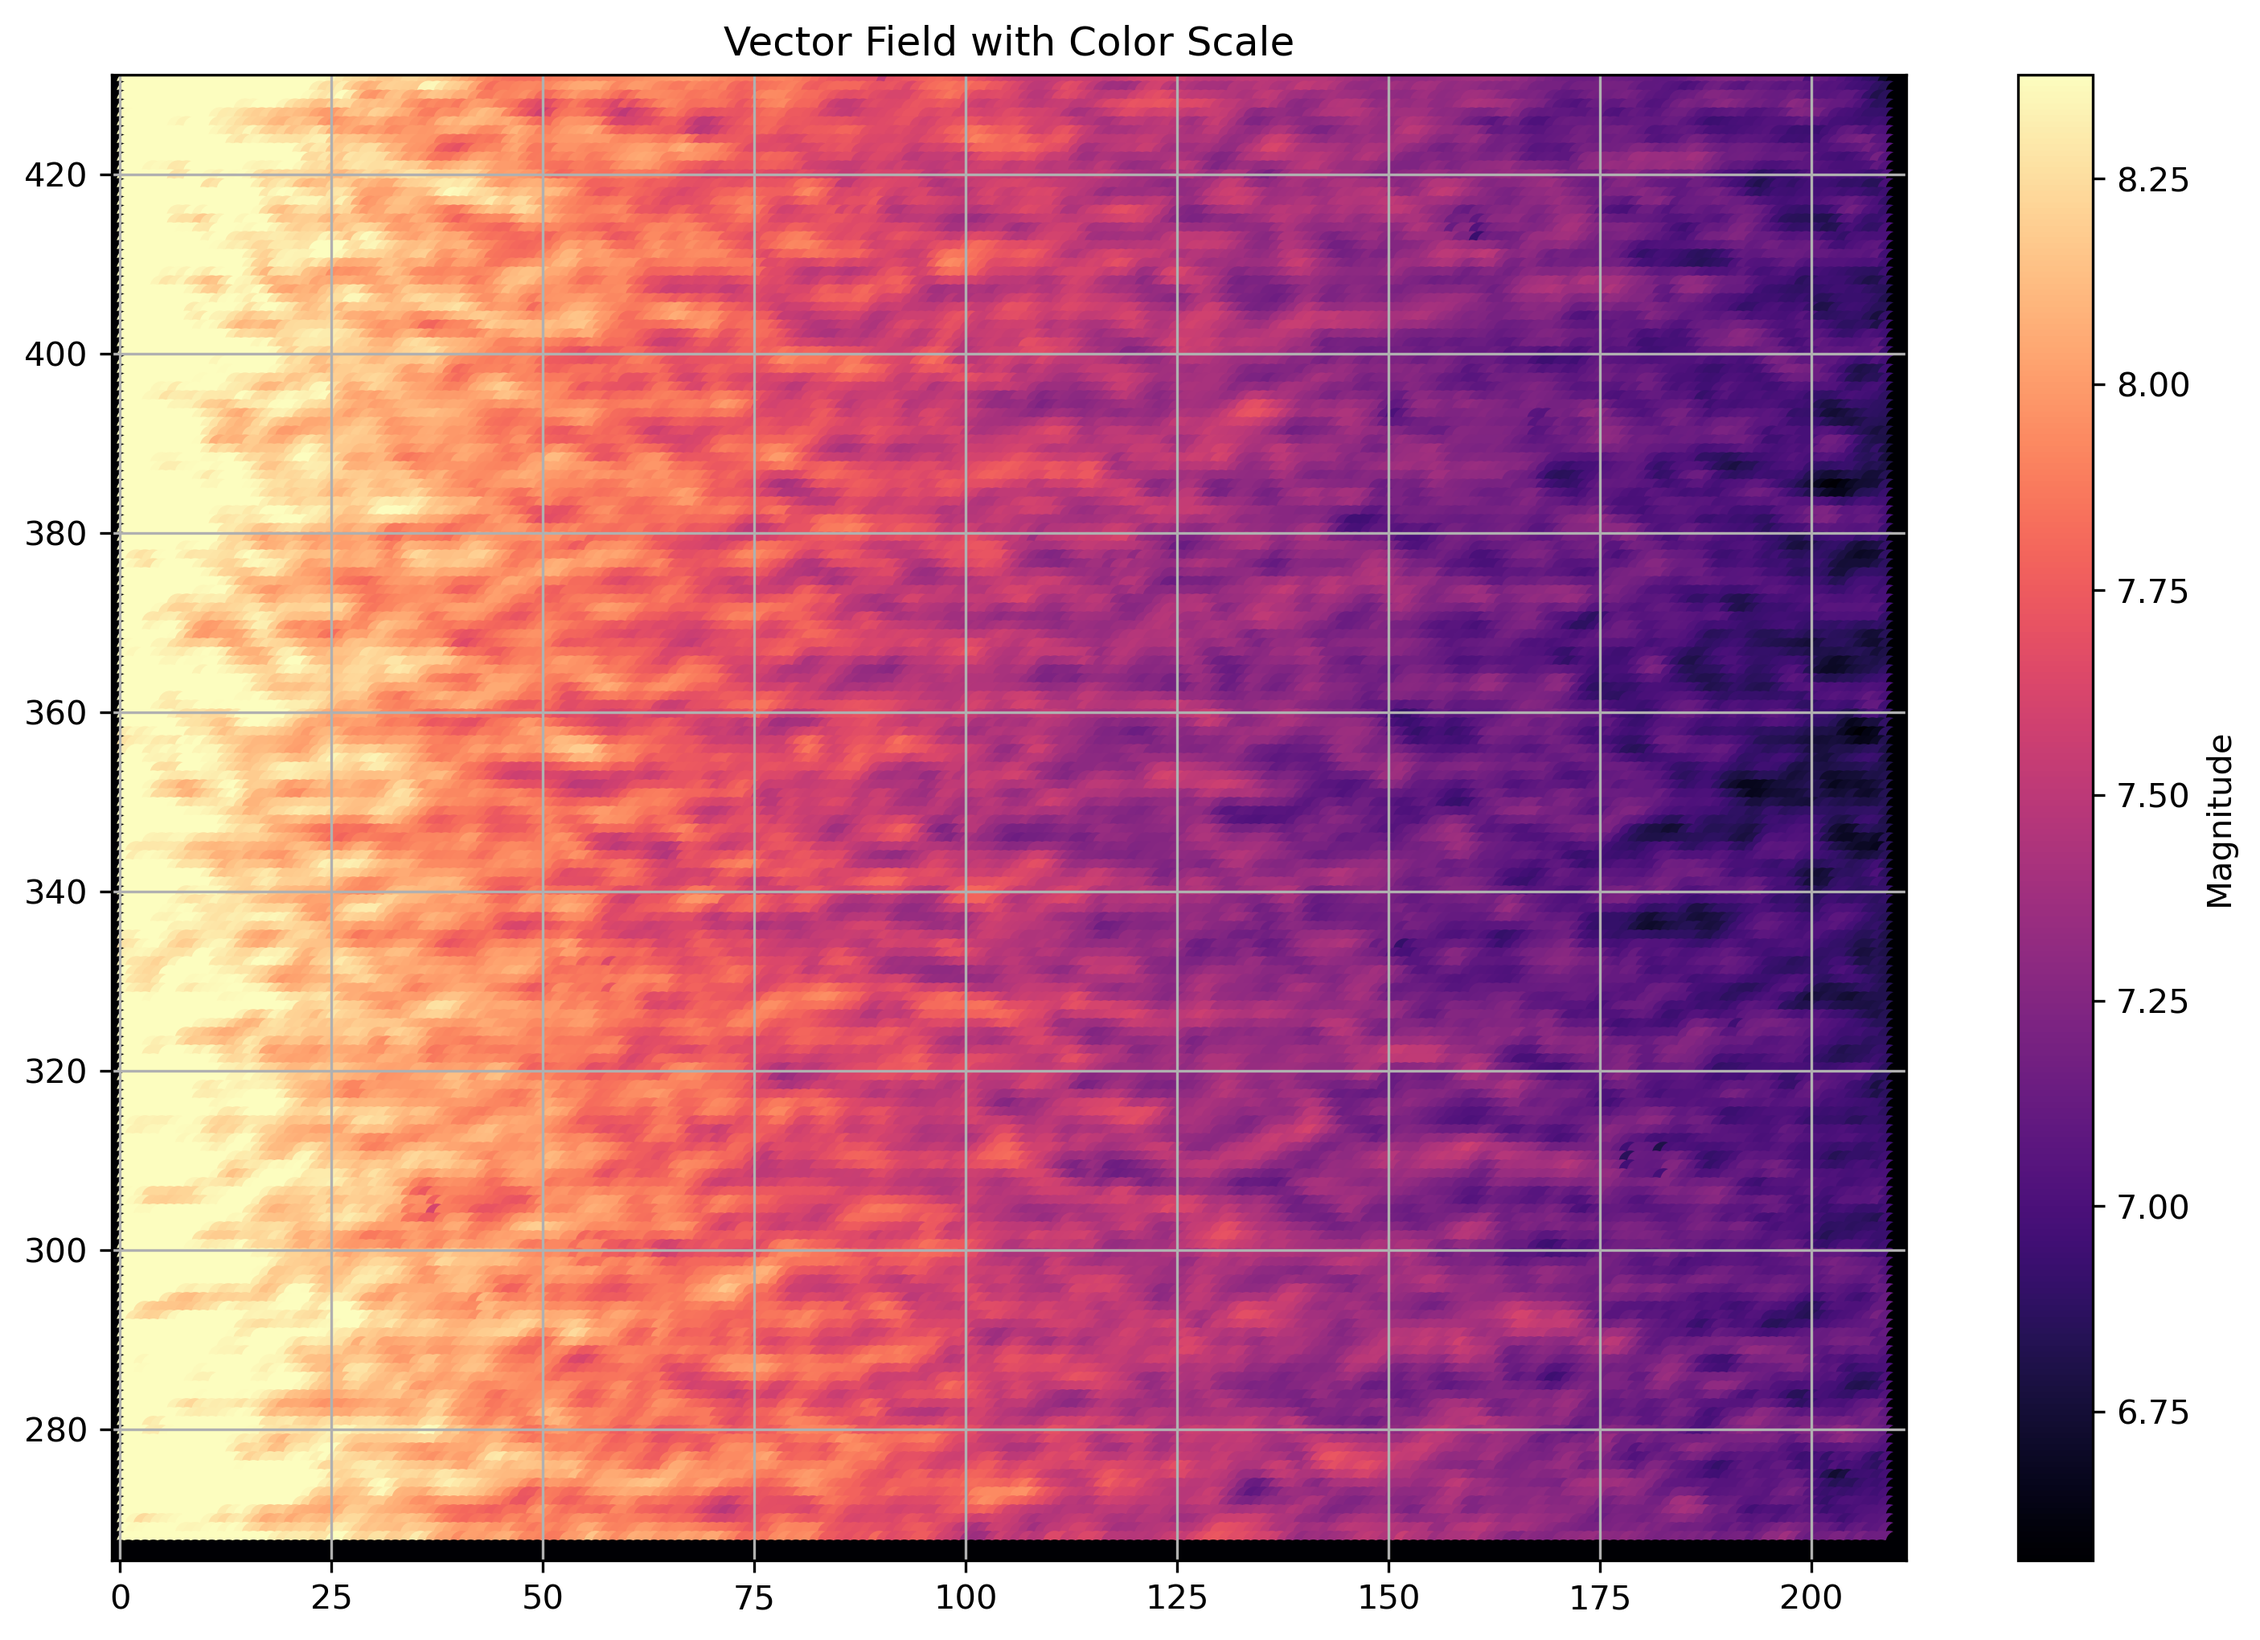
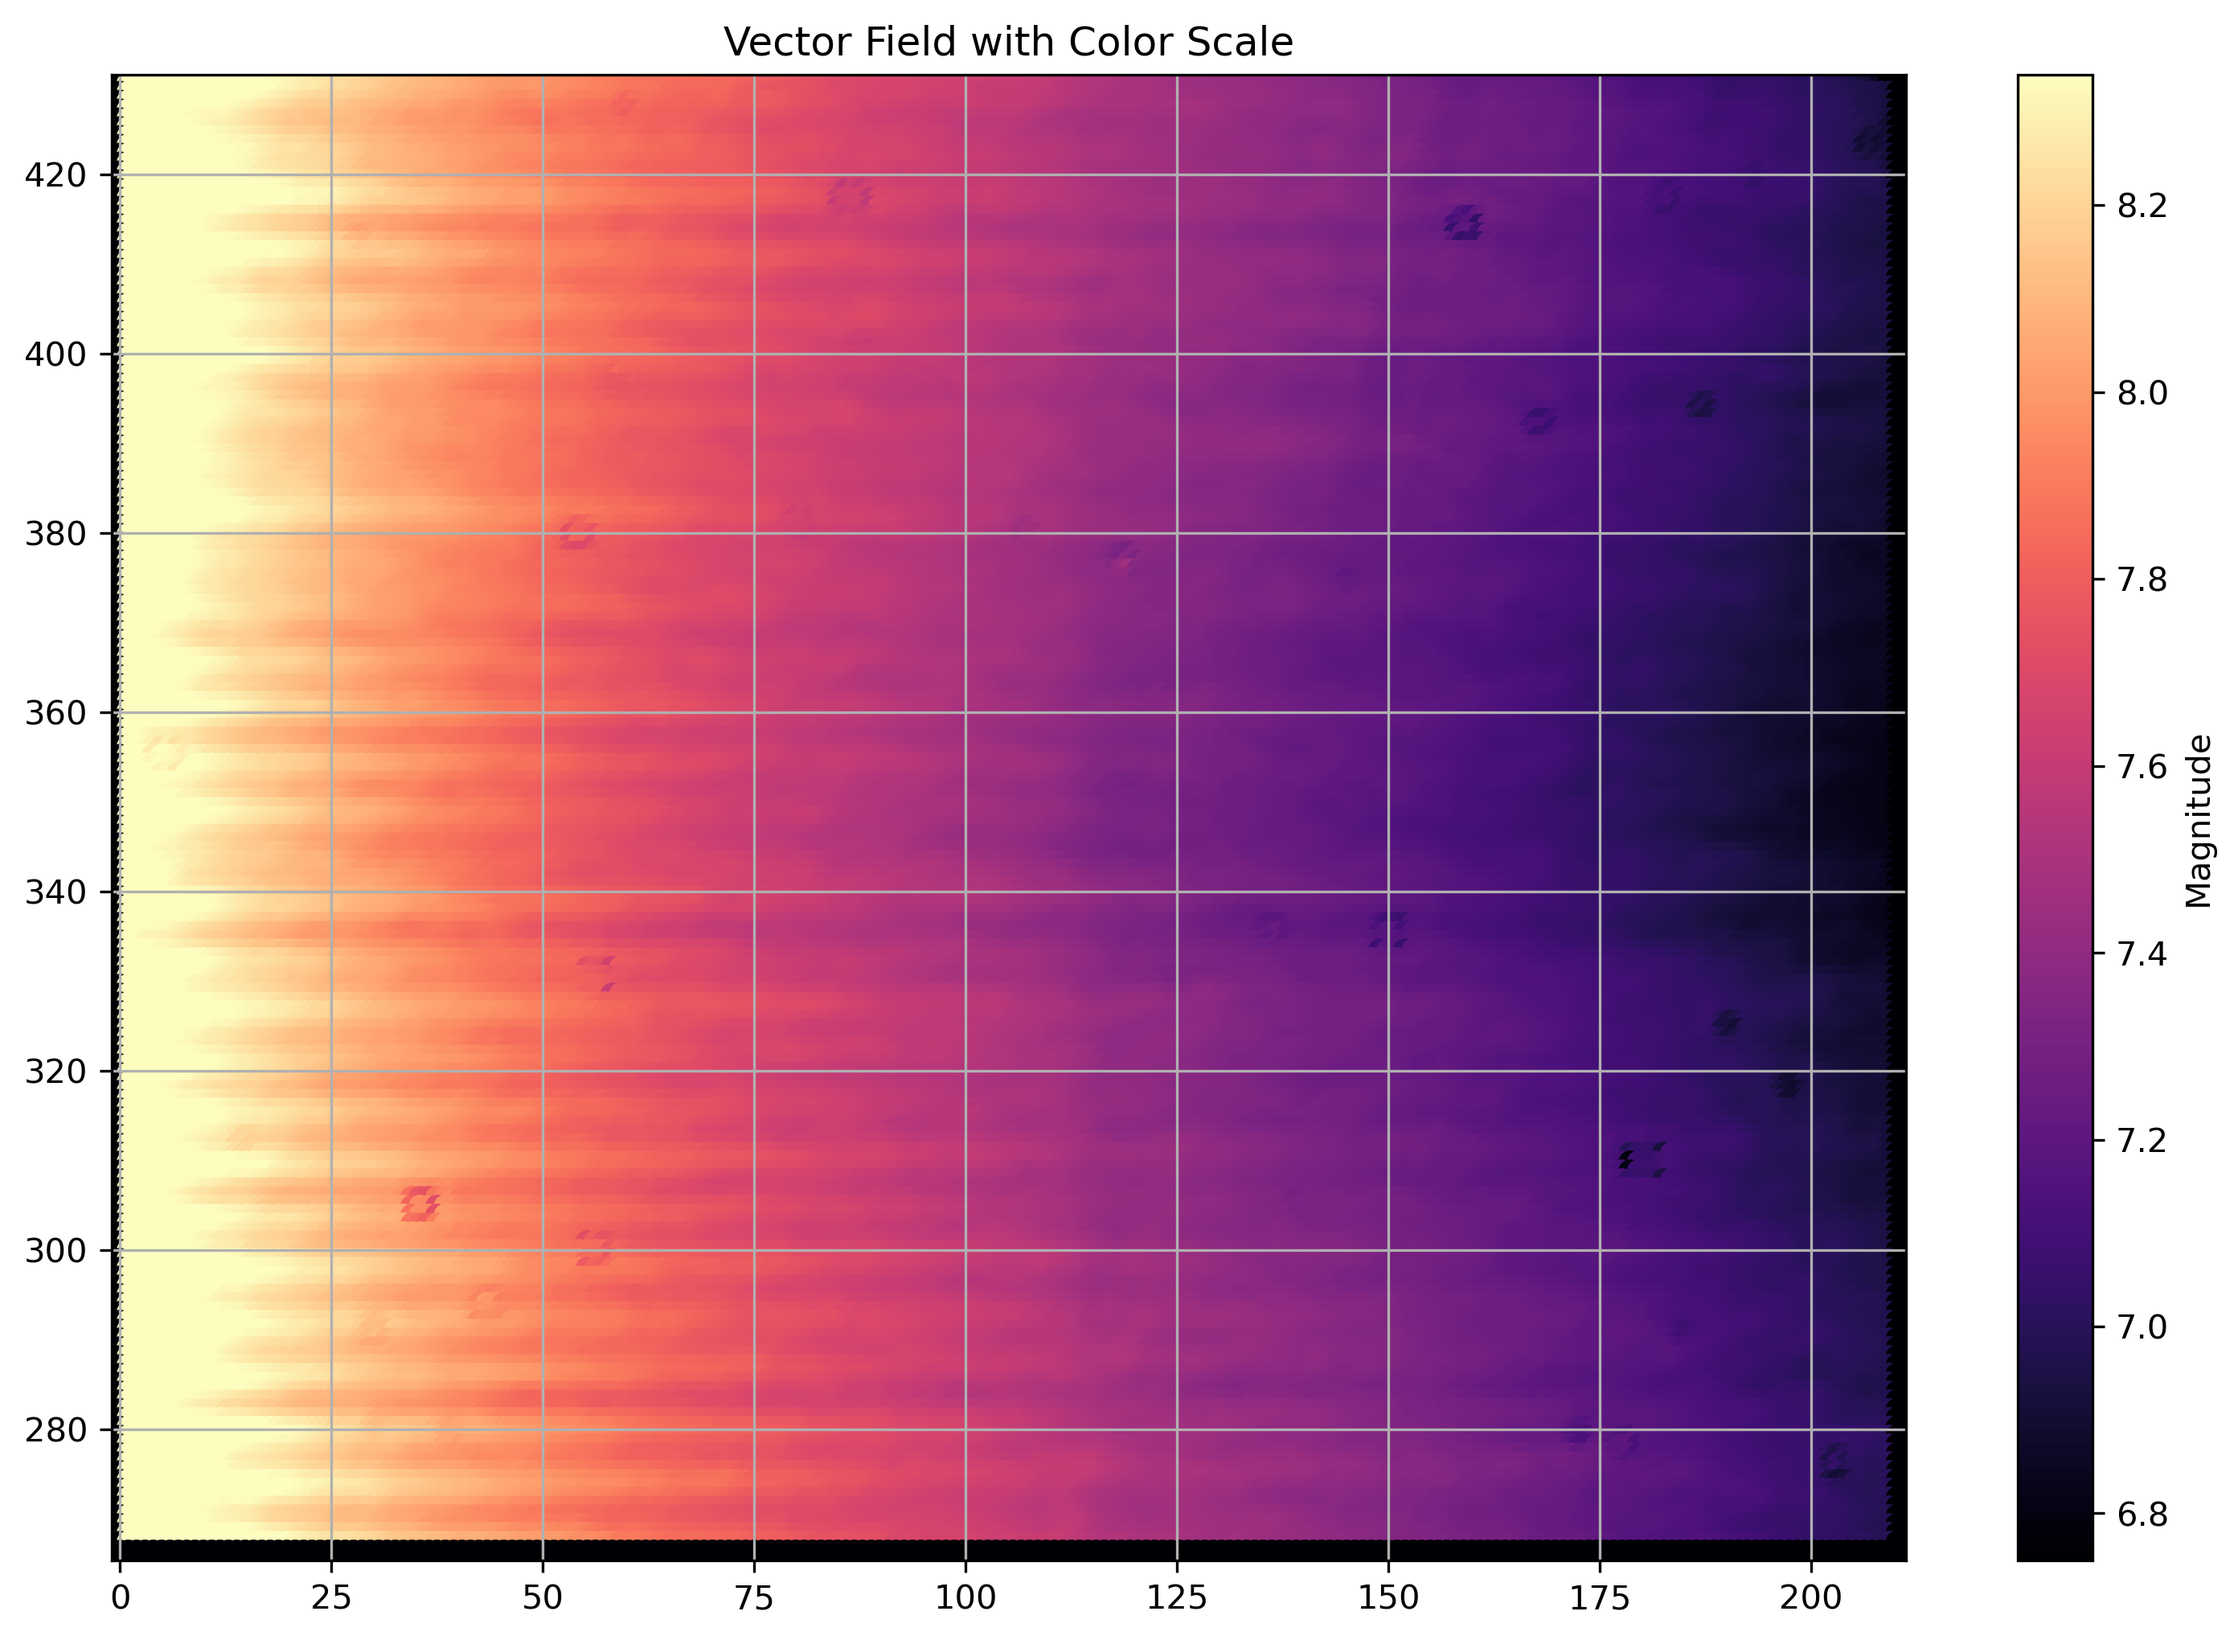
B_2

diff --git a/main.py b/main.py
@@ -33,12 +33,12 @@ y_positions = positions[:, 1]
 
     # Convert into time averaged flow fields
 
-Planes=['C']#Add C
+Planes=['B']#Add C
 
 for plane in Planes:
     print(plane)
     for j in range(2,3): #ADD 0
-        average_U_arr, average_V_arr = average_values(1, 2500, plane, j)
+        average_U_arr, average_V_arr = average_values(1, 4000, plane, j)
         print('ok')
         
         time_average_image(average_U_arr, average_V_arr, plane, j)
